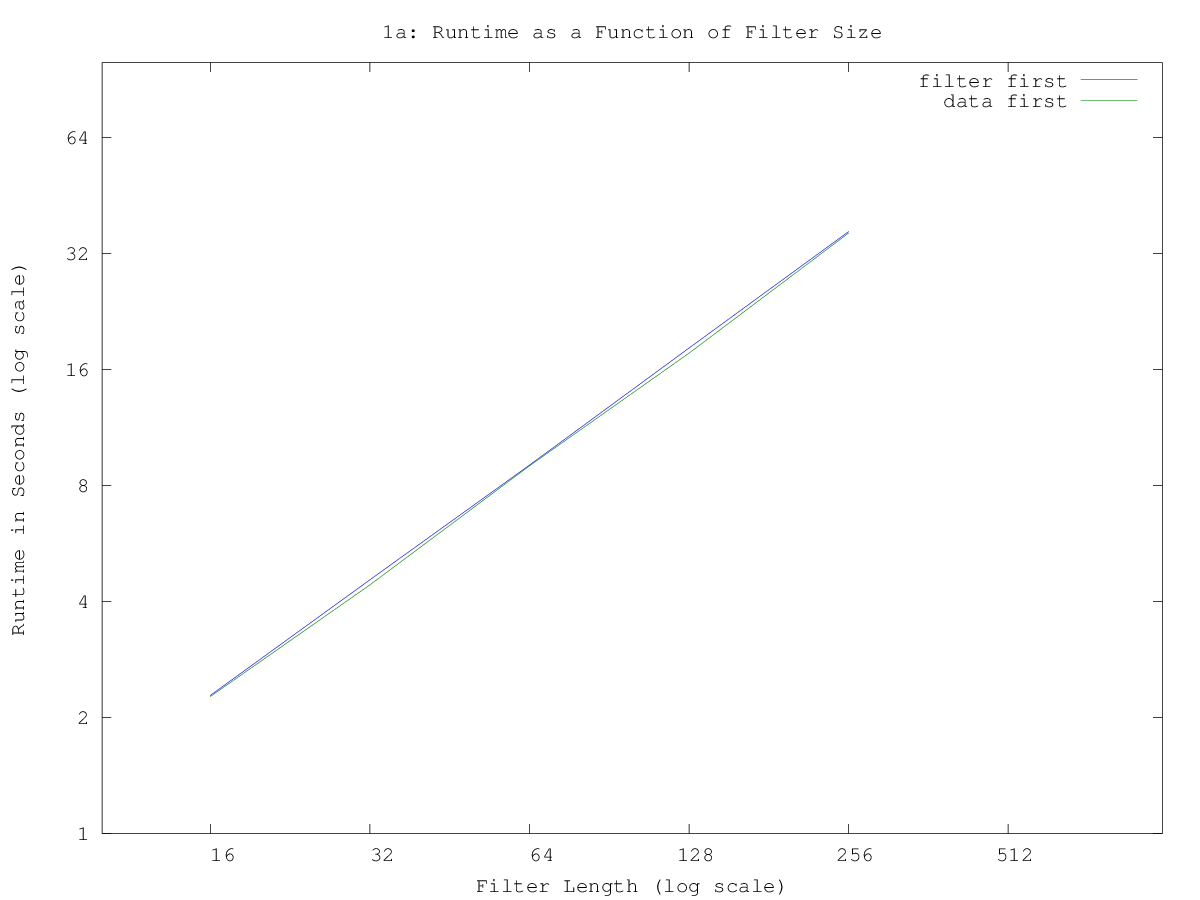
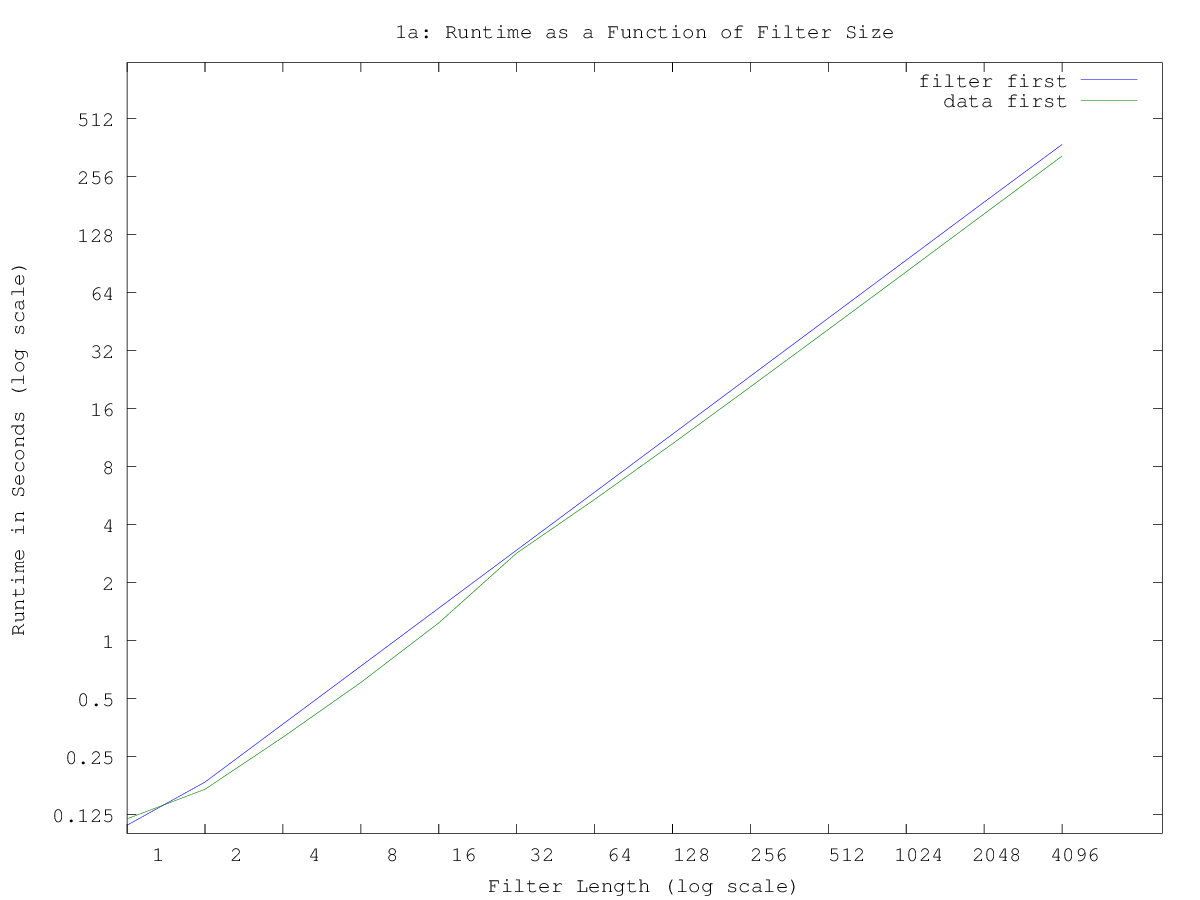
final commit before writeup. graphs completed.

diff --git a/OpenMPSmoother/source/graphs/gen_graph_two_c.m b/OpenMPSmoother/source/graphs/gen_graph_two_c.m
@@ -1,5 +1,5 @@
 
-log_axis_label = [1,2,4,8,16]
+log_axis_label = [1,2,4,8,16,32,64,128]
 
 filt_len = dlmread('bench_data/thread_count.txt',',')
 filt = dlmread('bench_data/filter.txt',',')
@@ -13,15 +13,15 @@ plot(x,y)
 set(gca, 'Xscale', 'log')
 set(gca, 'Xtick', log_axis_label)
 set(gca, 'Xticklabel', log_axis_label)
-xlabel('Number of Parallel Threads (log scale)')
+xlabel('Scaleup Factor (Scaleup Factor = # Threads and DATA LEN = Scaleup Factor * Starting DATA LEN)')
 
 ylabel('Runtime in Seconds (log scale)')
 set(gca, 'Yscale', 'log')
 set(gca, 'Ytick', log_axis_label)
 set(gca, 'Yticklabel', log_axis_label)
-title('2a: Speedup, or Runtime as a Function of Thread Count')
+title('2c: Scaleup, or Runtime as a Function of Number of Threads and Data Length')
 
 legend('filter first','data first');
 
-print -dpng graphs/2a.png
+print -dpng graphs/2c.png
 

diff --git a/OpenMPSmoother/source/graphs/gen_graph_one.m b/OpenMPSmoother/source/graphs/gen_graph_one.m
@@ -1,5 +1,5 @@
 
-log_axis_label = [1,2,4,8,16,32,64,128,256,512,1024,2048,4096]
+log_axis_label = [.0625,.125,.25,.5,1,2,4,8,16,32,64,128,256,512,1024,2048,4096]
 
 filt_len = dlmread('bench_data/filt_len.txt',',')
 filt = dlmread('bench_data/filter.txt',',')
